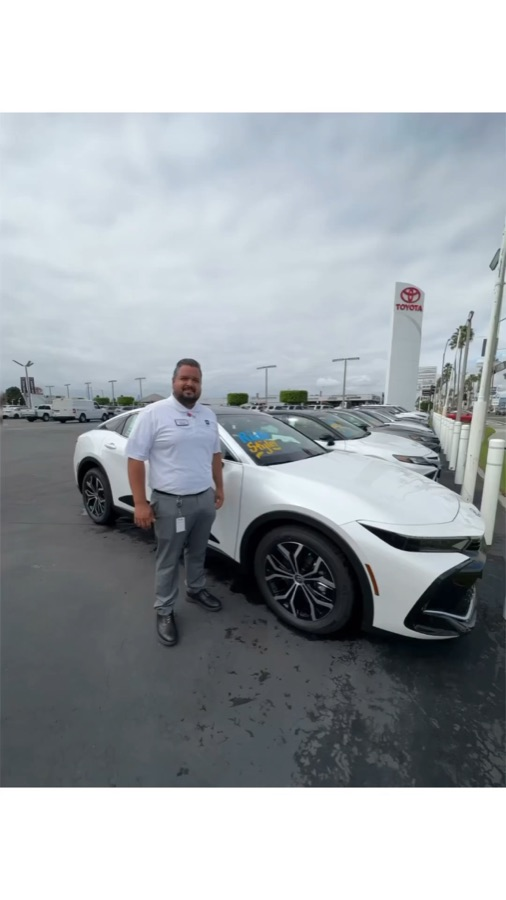
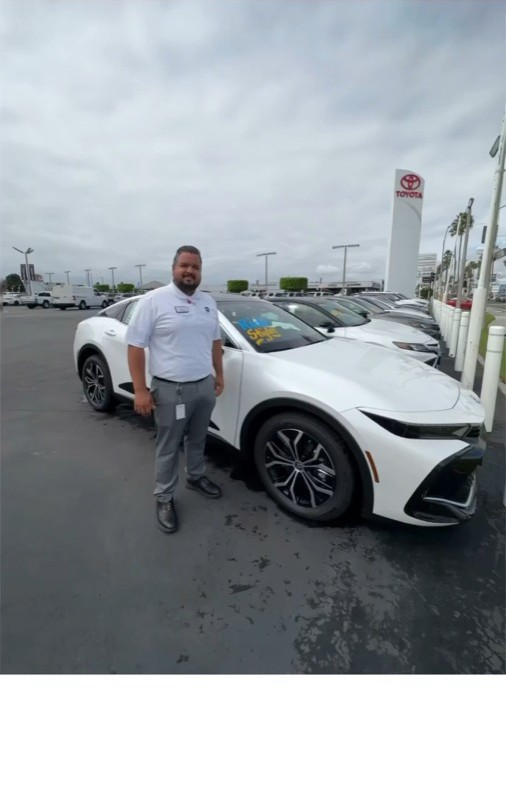
Crown dealer clip: crop 12.4% white band off poster (fixes white gap above video), enlarge video 260px to 460px

diff --git a/index.html b/index.html
@@ -1314,7 +1314,7 @@
 .hero-cta a:hover .arrow{transform:translateX(3px)}
 
 /* Dealer clip (July .dealer-clip pattern: vertical 9:16 phone video) */
-.dealer-clip{margin:8px auto 28px;max-width:260px}
+.dealer-clip{margin:8px auto 28px;max-width:460px}
 .dealer-clip .frame{position:relative;overflow:hidden;border-radius:14px;border:1px solid var(--rule);background:#0e1216;aspect-ratio:9/16;box-shadow:0 2px 4px rgba(20,18,16,.06),0 14px 30px rgba(20,18,16,.10)}
 .dealer-clip video{position:absolute;inset:0;display:block;width:100%;height:100%;object-fit:cover}
 .dealer-clip figcaption{margin-top:10px;font-size:13px;line-height:1.5;color:var(--muted);text-align:center}
